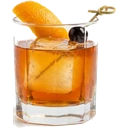
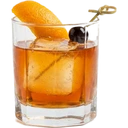
club30: cleaner old fashioned cutout

diff --git a/index.html b/index.html
@@ -143,7 +143,7 @@
       </div>
 
       <div class="card panelcard">
-        <div class="card-h"><h3><span class="ic ic-nb"><img src="img/panel-drink.webp?v=club29" alt="" width="30" height="30"></span>RATE THE PANEL</h3><span class="pill ok">avg 8.1</span></div>
+        <div class="card-h"><h3><span class="ic ic-nb"><img src="img/panel-drink.webp?v=club30" alt="" width="30" height="30"></span>RATE THE PANEL</h3><span class="pill ok">avg 8.1</span></div>
         <div class="panel-list" id="panel"></div>
       </div>
     </section>
